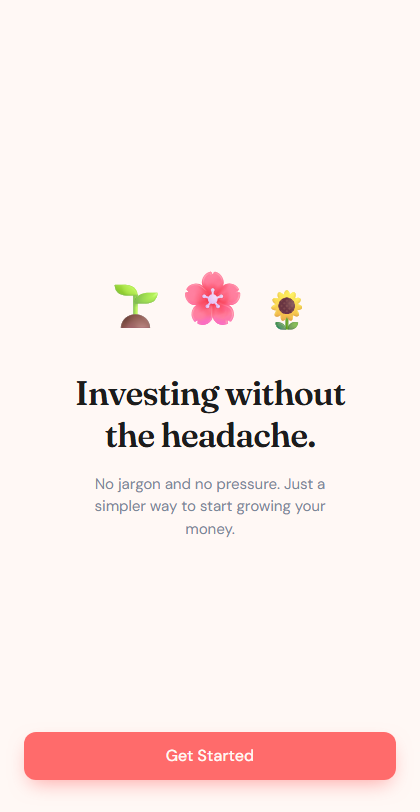
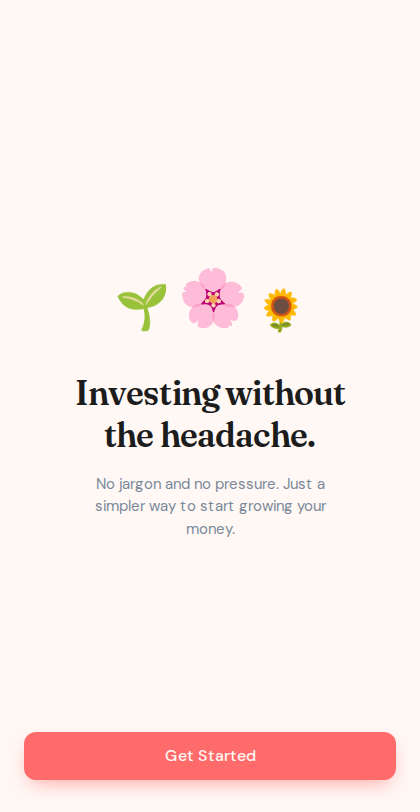
Update docs and screenshots for v1.1
Regenerate the walkthrough screenshots, add desktop frame, goal and
notifications captures, and document the frame, persistence, reset
and new deep-link parameters.

Claude-Session: https://claude.ai/code/session_01BkYcEgUurZmcv8ek2TCNm5

diff --git a/README.md b/README.md
@@ -9,6 +9,9 @@ It is built to be opened on a phone (375px / iPhone viewport) and shared as a si
 
 Open that link on your phone for the intended experience. To use it like an app, open your
 browser menu and choose "Add to Home Screen"; it will launch full screen from its own icon.
+On a laptop or desktop it opens inside an iPhone-style frame:
+
+![VELA inside the desktop phone frame](docs/screenshots/00-desktop-frame.png)
 
 | Home | First investment | Your garden |
 |---|---|---|
@@ -26,7 +29,11 @@ file anywhere (GitHub Pages, Netlify drop, S3, and so on) and share the link.
 The app loads React, Tailwind, Framer Motion, and its fonts from public CDNs, so it needs an
 internet connection the first time a browser opens it.
 
-On desktop it renders inside a centred phone frame. On a phone it fills the screen.
+On a desktop browser (at least 600px wide and 640px tall) the app renders inside an iPhone-style
+frame with a Dynamic Island, status bar and home indicator. The frame scales down to fit shorter
+windows, and the screen inside always stays at 390x844, so layouts never reflow. On a phone it
+fills the screen as before. Add `?frame=0` (or `&frame=0` in a deep link) to turn the frame off,
+or `frame=1` to force it on.
 
 ### Local preview (optional)
 
@@ -49,14 +56,23 @@ One self-contained file (`index.html`) using:
 
 1. Onboarding: Splash (auto-advances), Welcome, "What's your vibe" risk choice (🐢 / 🦊 / 🚀), Name, Garden intro
 2. Home: greeting, balance card, garden tile, quick actions, and a 5-tab bottom navigation bar
-3. Save: savings pot, set a goal, add money with preset chips, then a confirmation screen
-4. Invest: garden, confirm, then a "First bloom" moment where the garden springs up, a flower opens, and coral and leaf confetti falls
-5. Learn: three jargon-free explainer cards that open a simple article reader
-6. Settings: Light, Dark, and Moss themes, edit name, retake the risk choice, and an About section
+3. Home extras: a "Recent" activity list and a notifications sheet behind the bell (with an unread dot)
+4. Save: savings pot, set or edit a goal (name + target, with a progress bar), add money with preset chips, then a confirmation screen
+5. Invest: garden, choose an amount (SGD 20 / 50 / 100 or your own, minimum SGD 10), then a "First bloom" moment where the garden springs up, a flower opens, and coral and leaf confetti falls
+6. Learn: three jargon-free explainer cards that open a simple article reader
+7. Settings: Light, Dark, and Moss themes, edit name, retake the risk choice, an About section, and Reset demo
+
+Saving and investing can't take more than your balance; the screen explains why the button is
+disabled instead of letting the balance go negative.
 
 ### Demo state
 
 Maya, SGD 1,240.00 balance, Fox (Balanced) risk choice, a one-seed garden, and SGD 320 in the Savings Pot.
+
+Your progress is saved in the browser (`localStorage`), so a refresh keeps your name, balance,
+garden, goal and theme, and returns you to the tab you were on. **You > Reset demo** clears it
+and starts again from the splash screen. The browser back button (and Android back gesture) moves
+between screens inside the app.
 
 ## Design notes and one substitution
 
@@ -66,11 +82,14 @@ Maya, SGD 1,240.00 balance, Fox (Balanced) risk choice, a one-seed garden, and S
   to `react-router-dom` later is straightforward if the app is rebuilt as a Vite project.
 - Themes are driven by CSS variables, so every screen restyles instantly.
 - The "3D glass" icons are approximated with glossy gradient bubbles wrapping an emoji.
-- The bottom navigation has 5 icons (Home, Save, Invest, Learn, You), with "You" opening Settings.
+- The bottom navigation has 5 line icons (Home, Save, Invest, Learn, You), with "You" opening Settings.
+- Tappable cards work with the keyboard (Tab, then Enter or Space), and animations follow the
+  system "reduce motion" setting (no confetti or slides when it is on).
 - The copy avoids financial jargon. Where a term is needed, it is followed by a plain-language line.
 - Any screen can be opened directly with a hash deep link, which is how the docs screenshots
-  are captured. For example `#screen=home`, `#screen=investSuccess&flowers=1`, or
-  `#screen=settings&theme=dark`.
+  are captured. For example `#screen=home`, `#screen=investSuccess&flowers=1&amt=50`,
+  `#screen=save&goal=Trip%20to%20Japan:1000`, or `#screen=settings&theme=dark&frame=0`.
+  Deep links always start from the demo state: they don't read or overwrite saved progress.
 
 ## Moving to a Vite project later
 

diff --git a/docs/user-story-maya.md b/docs/user-story-maya.md
@@ -61,11 +61,17 @@ in over time.
 *As Maya, I want one screen that shows my balance and what I can do next, so that a quick
 check takes seconds.*
 
-Home shows her balance in large clear digits, this month's change in green, and her garden
-tile with the seed waiting. Below that sit three cards: Save, Invest, and Learn. The bottom
-bar keeps the same four destinations plus her profile everywhere in the app.
+Home shows her balance in large clear digits, a green line showing how much is growing in her
+garden, and her garden tile with the seed waiting. Below that sit Save and Invest cards, a short
+list of recent activity, and Learn. The bottom bar keeps the same four destinations plus her
+profile everywhere in the app. The bell opens a sheet with everything that has happened since
+she last looked.
 
 ![Home dashboard with balance card and garden tile](screenshots/04-home.png)
+
+| Notifications |
+|---|
+| ![Notifications sheet listing recent activity](screenshots/12-notifications.png) |
 
 **Why this matters:** one glance answers "how much do I have" and "what can I do", and the
 garden keeps her goal visible without a single chart.
@@ -85,8 +91,15 @@ bit counts." Her balance updates straight away.
 |---|---|
 | ![Add money screen with preset amount chips](screenshots/05-add-money.png) | ![Green confirmation screen showing SGD 50 saved](screenshots/06-save-confirm.png) |
 
+A few weeks later she taps **Set a Goal**, types "Trip to Japan" and picks the SGD 1,000 chip.
+The savings pot now says what it is for, with a coral bar showing how far along she is.
+
+![Savings pot with a Trip to Japan goal and progress bar](screenshots/11-set-goal.png)
+
 **Why this matters:** preset chips remove the "how much is right?" hesitation, and the
-confirmation celebrates a small amount instead of nudging her to save more.
+confirmation celebrates a small amount instead of nudging her to save more. If she types more
+than she has, the button stays disabled and a line tells her how much is available, so her
+balance can never go negative. A named goal turns "saving" into "saving for something".
 
 ---
 
@@ -95,11 +108,12 @@ confirmation celebrates a small amount instead of nudging her to save more.
 *As Maya, I want to invest a small amount and be reassured I can get it back, so that the
 first step doesn't feel like a commitment I might regret.*
 
-Maya has read that starting small is fine, so she tries the **Plant a flower for SGD 50**
-button. The confirmation screen shows exactly what is happening: the amount, her fox style,
-and one line that answers her biggest worry: she can take her money out whenever she wants.
+Maya has read that starting small is fine, so she taps **Plant a flower**. SGD 50 is already
+picked, with SGD 20 and SGD 100 one tap away (the smallest flower is SGD 10). The screen shows
+exactly what is happening: the amount, her fox style, how much she has available, and one line
+that answers her biggest worry: she can take her money out whenever she wants.
 
-She taps **Confirm**. The screen goes dark, her garden rises from the bottom, and a flower
+She taps **Invest SGD 50.00**. The screen goes dark, her garden rises from the bottom, and a flower
 blooms next to her seed with a burst of confetti. "Your first bloom."
 
 | Confirming | First bloom |
@@ -133,8 +147,9 @@ profile is a preference she can change, not a label she is stuck with.
 
 ## Where Maya ends up
 
-A month in, Maya has SGD 370 in her savings pot, two flowers in her garden, and she can
+A month in, Maya has SGD 370 in her savings pot, a goal she can see filling up, two flowers in her garden, and she can
 explain to a colleague what diversifying means without using the word. The app never asked
 her to be someone she isn't. That is the product goal in one sentence.
 
-*All data in the prototype is mocked. Maya is a design persona, not a real user.*
+*All data in the prototype is mocked. Maya is a design persona, not a real user. Screenshots
+are captured frameless at phone size with deep links such as `#screen=home&frame=0`.*
